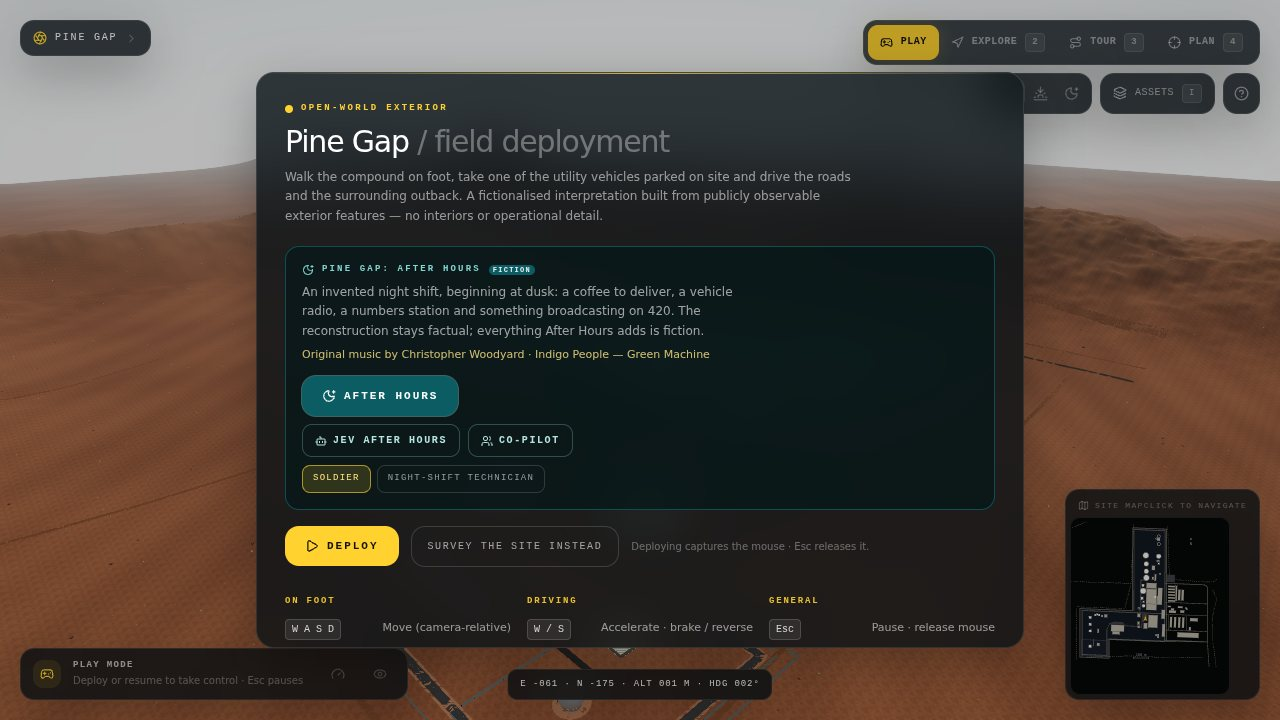
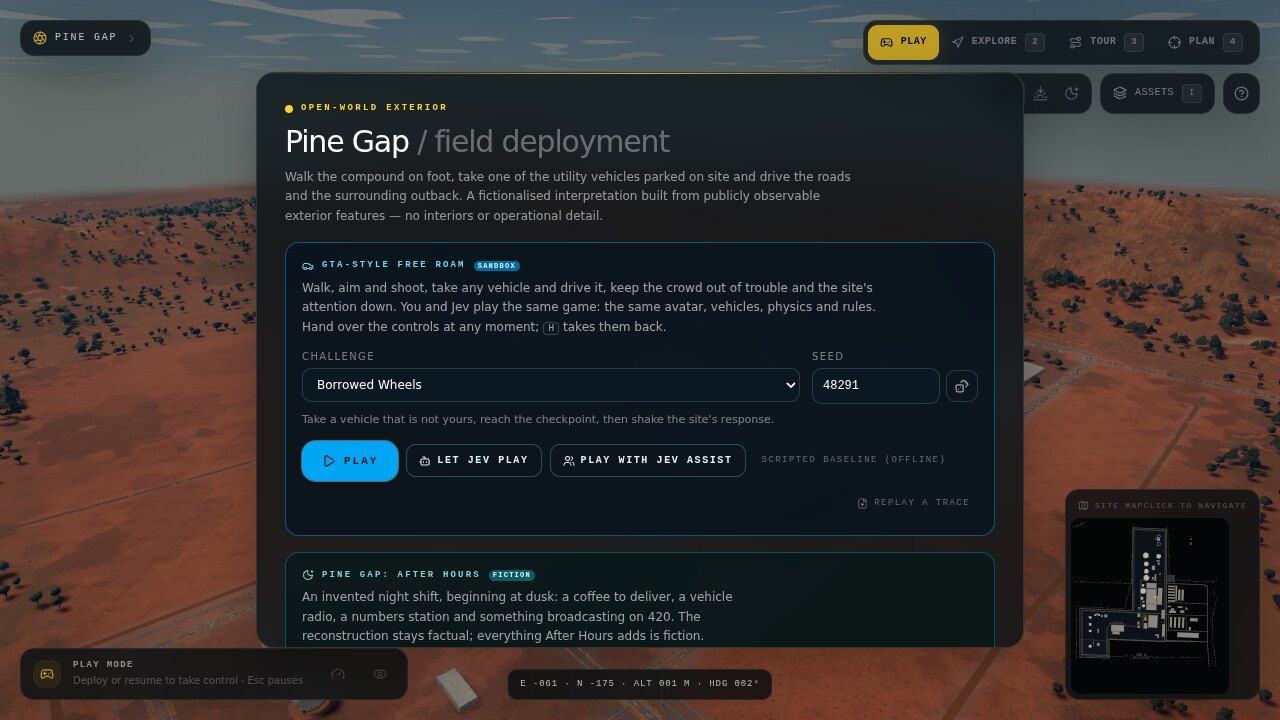
README: new briefing and Explore screenshots after the graphics overhaul
Captured in headless Chromium at the medium tier, 1280x720. The After
Hours screens are unchanged: starting After Hours takes the software-
rendered browser past this container's memory limit.

Claude-Session: https://claude.ai/code/session_019hQJFrJgwgbCi2hPmjFc5V

diff --git a/README.md b/README.md
@@ -514,7 +514,7 @@ The first world is a playable reconstruction of the Pine Gap site in Australia's
 
 <table>
   <tr>
-    <td width="50%"><img src="docs/media/screens/explore.jpg" alt="Explore mode: an orbiting view of the whole site on red desert below the ridge line, with the data-confidence panel and the site map." width="100%" /></td>
+    <td width="50%"><img src="docs/media/screens/explore.jpg" alt="Explore mode: an orbiting view of the whole site on red desert scattered with desert trees below the ridge line, with the data-confidence panel and the site map." width="100%" /></td>
     <td width="50%"><img src="docs/media/screens/arrival.jpg" alt="After Hours begins: the night desk asks for a coffee while the radio starts playing Green Machine." width="100%" /></td>
   </tr>
   <tr>
@@ -523,7 +523,7 @@ The first world is a playable reconstruction of the Pine Gap site in Australia's
   </tr>
   <tr>
     <td width="50%"><img src="docs/media/screens/driving.jpg" alt="Driving a 4×4 past a radome with the vehicle radio playing Indigo People's Green Machine, the coffee at 100% in the cup holder and 494 m to the north antenna hut." width="100%" /></td>
-    <td width="50%"><img src="docs/media/screens/briefing.jpg" alt="The briefing card with Deploy, After Hours, Jev After Hours and Co-pilot." width="100%" /></td>
+    <td width="50%"><img src="docs/media/screens/briefing.jpg" alt="The briefing card over the desert: Free Roam with a challenge and seed, Play, Let Jev Play and Play with Jev Assist, and Pine Gap: After Hours below it." width="100%" /></td>
   </tr>
   <tr>
     <td align="center"><sub><b>Behind the wheel.</b> The coffee rides in the cup holder; smooth braking keeps it there.</sub></td>
